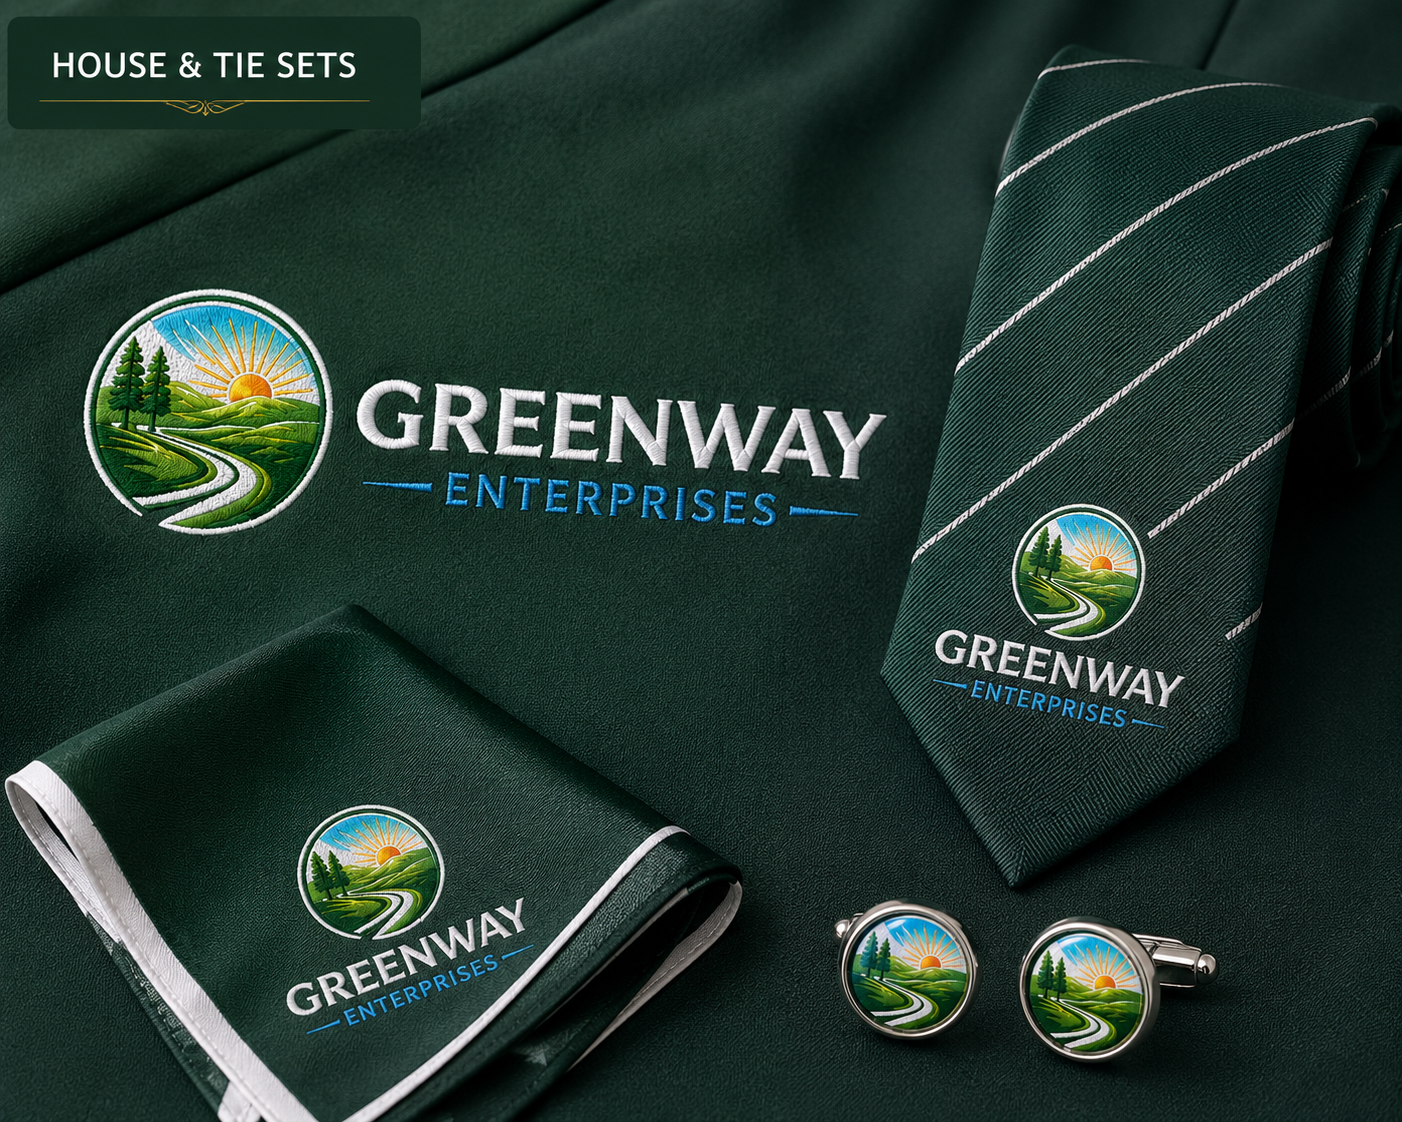
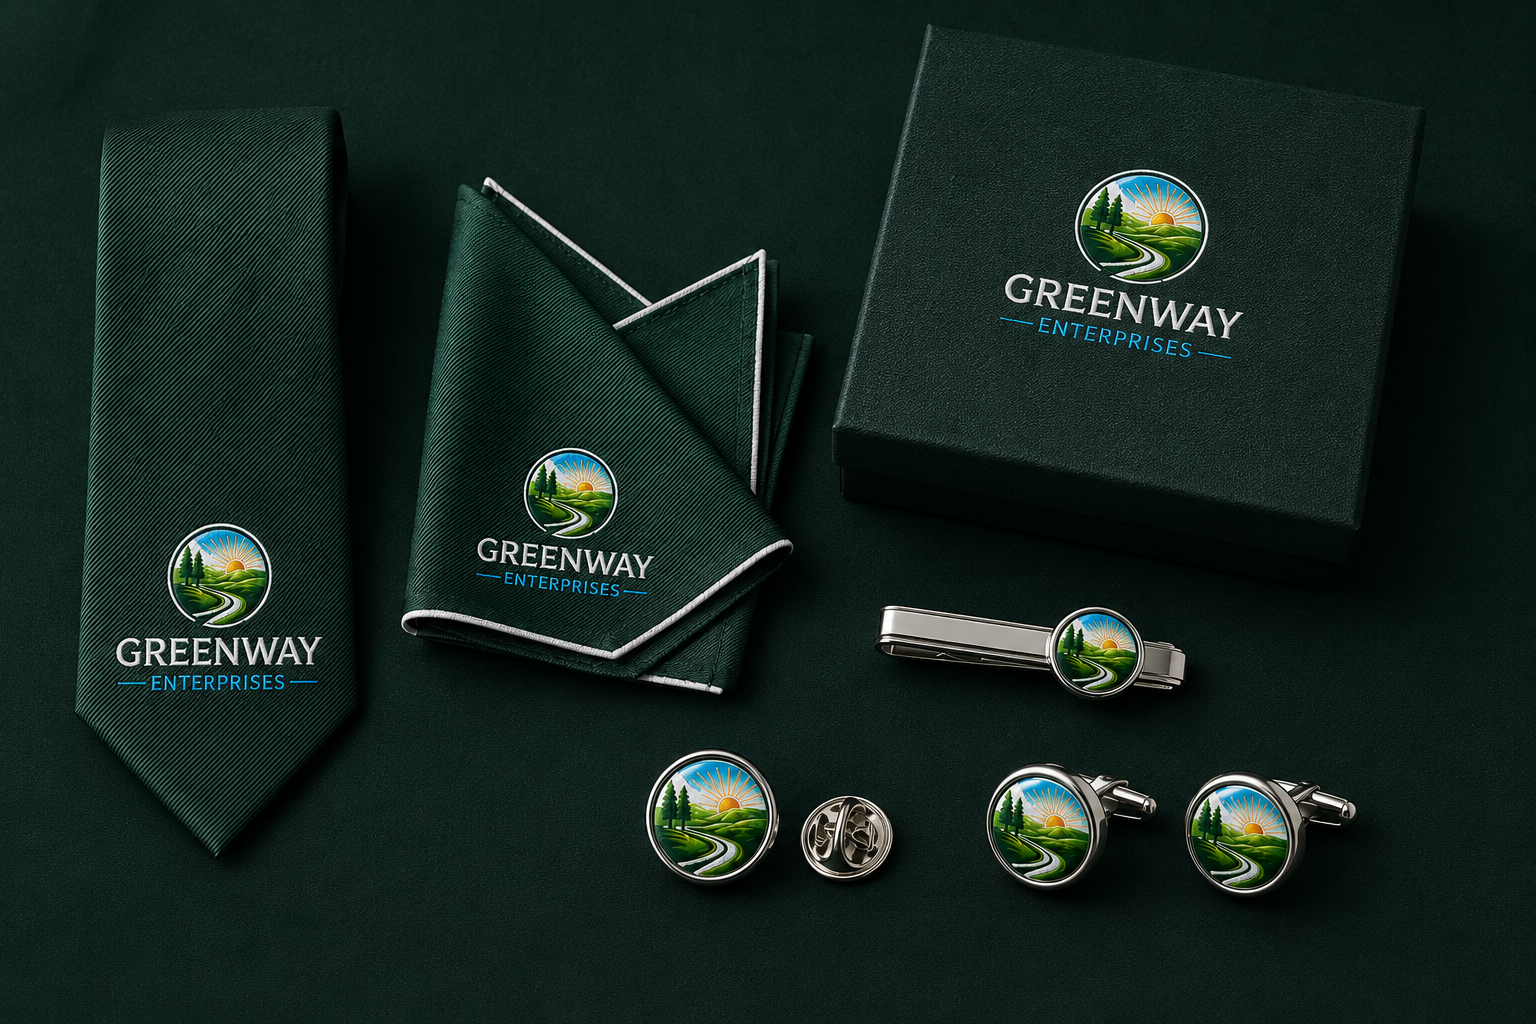
Add Cultural Costumes mockup, completing product image coverage
Every product card in What We Offer now has a dedicated image —
no placeholders remain. Also refreshes House & Tie Sets mockup.

diff --git a/greenway-enterprises.html b/greenway-enterprises.html
@@ -974,7 +974,7 @@ footer{background:#0a2414;color:rgba(255,255,255,0.45);padding:3.5rem 8% 1.8rem}
           <div class="wwo-card"><div class="wwo-card-img"><img src="./mockups/Sports Uniforms.png" alt="Sports Uniforms" loading="lazy"></div><div class="wwo-card-body"><div class="wwo-card-name">Sports Uniforms</div></div></div>
           <div class="wwo-card"><div class="wwo-card-img"><img src="./mockups/House & Tie Sets.png" alt="House &amp; Tie Sets" loading="lazy"></div><div class="wwo-card-body"><div class="wwo-card-name">House &amp; Tie Sets</div></div></div>
           <div class="wwo-card"><div class="wwo-card-img"><img src="./mockups/College Blazers.png" alt="College Blazers" loading="lazy"></div><div class="wwo-card-body"><div class="wwo-card-name">College Blazers</div></div></div>
-          <div class="wwo-card"><div class="wwo-card-img placeholder"><svg viewBox="0 0 24 24"><path d="M20.59 13.41l-7.17 7.17a2 2 0 0 1-2.83 0L2 12V2h10l8.59 8.59a2 2 0 0 1 0 2.82z"/><line x1="7" y1="7" x2="7.01" y2="7"/></svg></div><div class="wwo-card-body"><div class="wwo-card-name">Cultural Costumes</div></div></div>
+          <div class="wwo-card"><div class="wwo-card-img"><img src="./mockups/Cultural Costumes.png" alt="Cultural Costumes" loading="lazy"></div><div class="wwo-card-body"><div class="wwo-card-name">Cultural Costumes</div></div></div>
         </div>
       </div>
 
